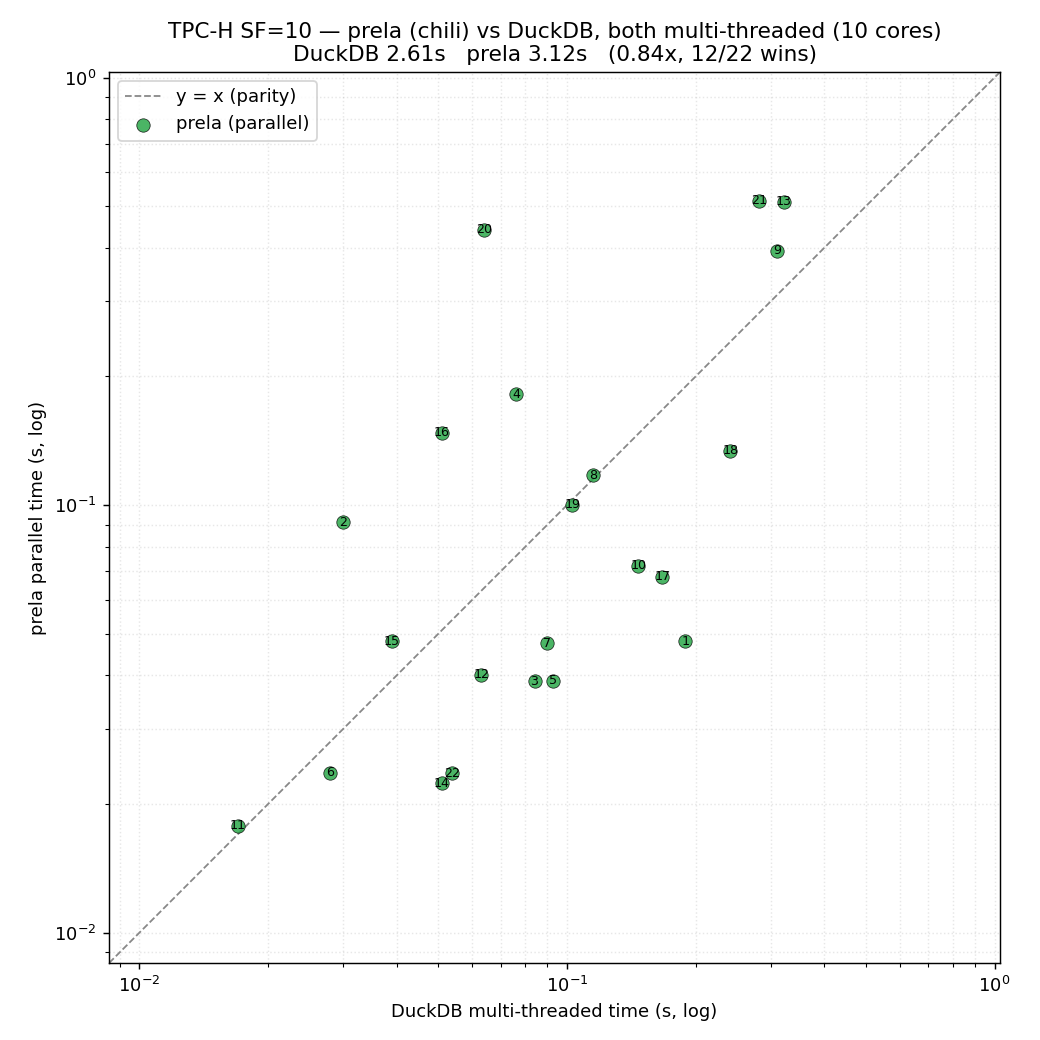
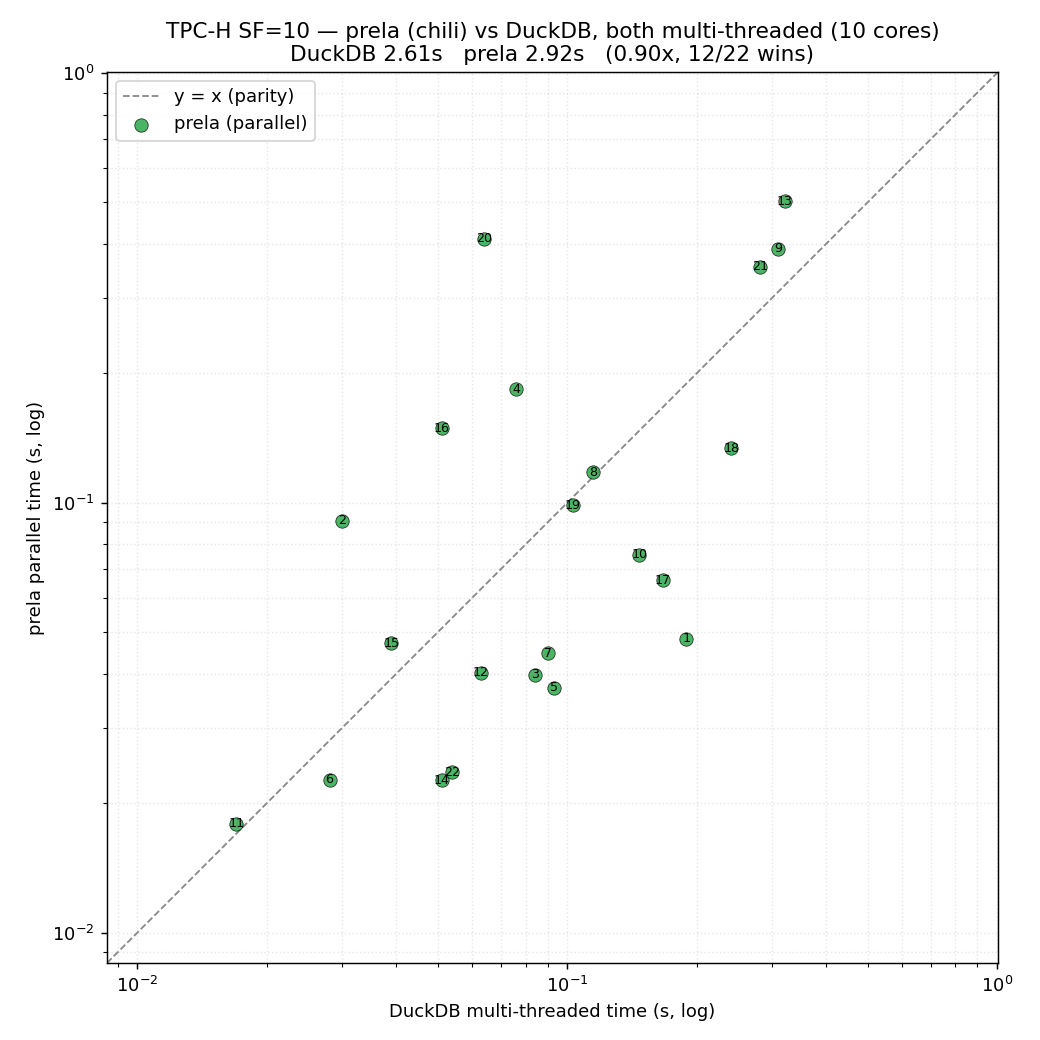
threading: q21 via sorted-run fold (SortedRel probe) — reclaim the big loser
q21 groups lineitem by order, and lineitem is stored in orderkey order, so the
two per-order state folds are clustered. psorted_fold parallelizes them as
sorted runs with O(distinct-orders) memory; SortedRel carries the result into
probe position via binary search (q21 probes the state per saudi-late
lineitem). No 60M-slot dense Vec, no 60M HashMap inserts.

SF=1 still exact (q21 not among the q1/q9 float diffs). SF=10 warm:
  q21  0.515s -> 0.354s
  TPC-H total 3.12s -> 2.92s  vs DuckDB 2.61s  (0.90x, 12/22 wins)

Remaining gap is q13 (orders-by-customer: not clustered, and dominated by the
60M-row memmem comment scan, not the fold) — a different optimization.

diff --git a/rust/src/par.rs b/rust/src/par.rs
@@ -13,7 +13,7 @@
 // partial, `merge` is the associative combine. `par_min_row` (in
 // queries::helpers) and the fold builders specialize it.
 
-use crate::engine::{Dense, DenseFold, Fold, ParDrive, QueryExt};
+use crate::engine::{Dense, DenseFold, Drive, Fold, ParDrive, Probe, Query, QueryExt};
 use ahash::AHashMap as HashMap;
 use chili::{Scope, ThreadPool};
 use std::hash::Hash;
@@ -326,4 +326,64 @@ where
             a
         },
     )
+}
+
+/// A key-sorted `(D, R)` relation with binary-search `probe` — the probe-able
+/// form of `par_sorted_fold`'s output. Memory is one Vec of the *distinct*
+/// keys (vs a dense n-slot table), so it carries a parallel sorted-run
+/// aggregation into probe position (q21's per-order state) without the dense
+/// blowup. Keys are dense ids, compared by index.
+pub struct SortedRel<D: Dense, R: Copy> {
+    pub pairs: Vec<(D, R)>,
+}
+impl<D: Dense, R: Copy> Query for SortedRel<D, R> {
+    type D = D;
+    type R = R;
+}
+impl<D: Dense, R: Copy> Probe for SortedRel<D, R> {
+    #[inline(always)]
+    fn probe<K: FnMut(R)>(&self, x: D, mut k: K) {
+        if let Ok(i) = self.pairs.binary_search_by_key(&x.idx(), |(d, _)| d.idx()) {
+            k(self.pairs[i].1);
+        }
+    }
+    #[inline(always)]
+    fn probe_any<K: FnMut(R) -> bool>(&self, x: D, mut k: K) -> bool {
+        match self.pairs.binary_search_by_key(&x.idx(), |(d, _)| d.idx()) {
+            Ok(i) => k(self.pairs[i].1),
+            Err(_) => false,
+        }
+    }
+}
+impl<D: Dense, R: Copy> Drive for SortedRel<D, R> {
+    #[inline(always)]
+    fn drive<K: FnMut(D, R)>(&self, mut k: K) {
+        for &(d, r) in &self.pairs {
+            k(d, r);
+        }
+    }
+}
+
+/// Flag-dispatched sorted-run fold returning a probe-able `SortedRel`. Parallel
+/// path uses `par_sorted_fold`; sequential path streaming-reduces in one pass.
+/// Both require the scan clustered by the (dense) group key.
+pub fn psorted_fold<Q, S, OP, CB>(q: Q, init: S, op: OP, combine: CB) -> SortedRel<Q::D, S>
+where
+    Q: ParDrive + Sync,
+    Q::D: Dense + Send + Sync,
+    S: Copy + Send + Sync,
+    OP: Fn(S, Q::R) -> S + Sync,
+    CB: Fn(S, S) -> S + Sync,
+{
+    let pairs = if is_parallel() {
+        par_sorted_fold(ThreadPool::global(), &q, GRAIN, init, op, combine)
+    } else {
+        let mut run: Vec<(Q::D, S)> = Vec::new();
+        q.drive(|d, v| match run.last_mut() {
+            Some((k, s)) if *k == d => *s = op(*s, v),
+            _ => run.push((d, op(init, v))),
+        });
+        run
+    };
+    SortedRel { pairs }
 }

diff --git a/rust/src/tpch/optimized.rs b/rust/src/tpch/optimized.rs
@@ -12,7 +12,7 @@ use std::collections::HashMap;
 
 use super::common::{f, fmt_yyyymmdd, join_lines, with_overrides};
 use crate::engine::*;
-use crate::par::{pdense_fold, pfold, punwrap_fold};
+use crate::par::{pdense_fold, pfold, psorted_fold, punwrap_fold};
 use crate::tpch_schema::*;
 
 pub fn queries() -> Vec<super::Entry> {
@@ -268,16 +268,22 @@ fn q21() -> String {
         Some(f) if f != s => (first, true),
         _ => (first, multi),
     };
-    // These two per-order state folds stay sequential dense_fold: the state is
-    // 24 bytes over the 60M order universe, so dense-parallel would need
-    // ~3GB×leaves and HashMap partials would hash all 60M lineitems. Dense-
-    // sequential keeps q21's original tuned speed; parallelism here isn't worth
-    // the memory.
-    let supp_state = Lineitem::supplier.group_by(order)
-        .dense_fold(orders.iq().n, (None, false), track);
-    let late_supp_state = (&late).select(Lineitem::supplier)
-        .group_by((&late).select(order))
-        .dense_fold(orders.iq().n, (None, false), track);
+    // Monoid merge of two partial states for the same order: `multi` (≥2
+    // distinct suppliers) holds if either side saw multi or their two
+    // representative suppliers differ; identity is (None, false).
+    let track_combine = |a: (Option<Id<Supplier>>, bool), b: (Option<Id<Supplier>>, bool)| match (a, b) {
+        ((None, _), b) => b,
+        (a, (None, _)) => a,
+        ((Some(fa), ma), (Some(fb), mb)) => (Some(fa), ma || mb || fa != fb),
+    };
+    // lineitem is stored in orderkey order, so grouping by `order` is clustered
+    // — a sorted-run fold parallelizes with O(distinct-orders) memory (a Vec,
+    // not a 60M-slot dense table or 60M HashMap inserts), then probes by binary
+    // search. This is the one dense-fold query the sorted aggregation reclaims.
+    let supp_state = psorted_fold(Lineitem::supplier.group_by(order), (None, false), track, track_combine);
+    let late_supp_state = psorted_fold(
+        (&late).select(Lineitem::supplier).group_by((&late).select(order)),
+        (None, false), track, track_combine);
     // Only the SAUDI suppliers' late lineitems can qualify, so `saudi` is the
     // selective FIRST conjunct — precompute it as a Bitset (bit-tested per
     // late lineitem; supplier.n is tiny). The order predicates (status F,